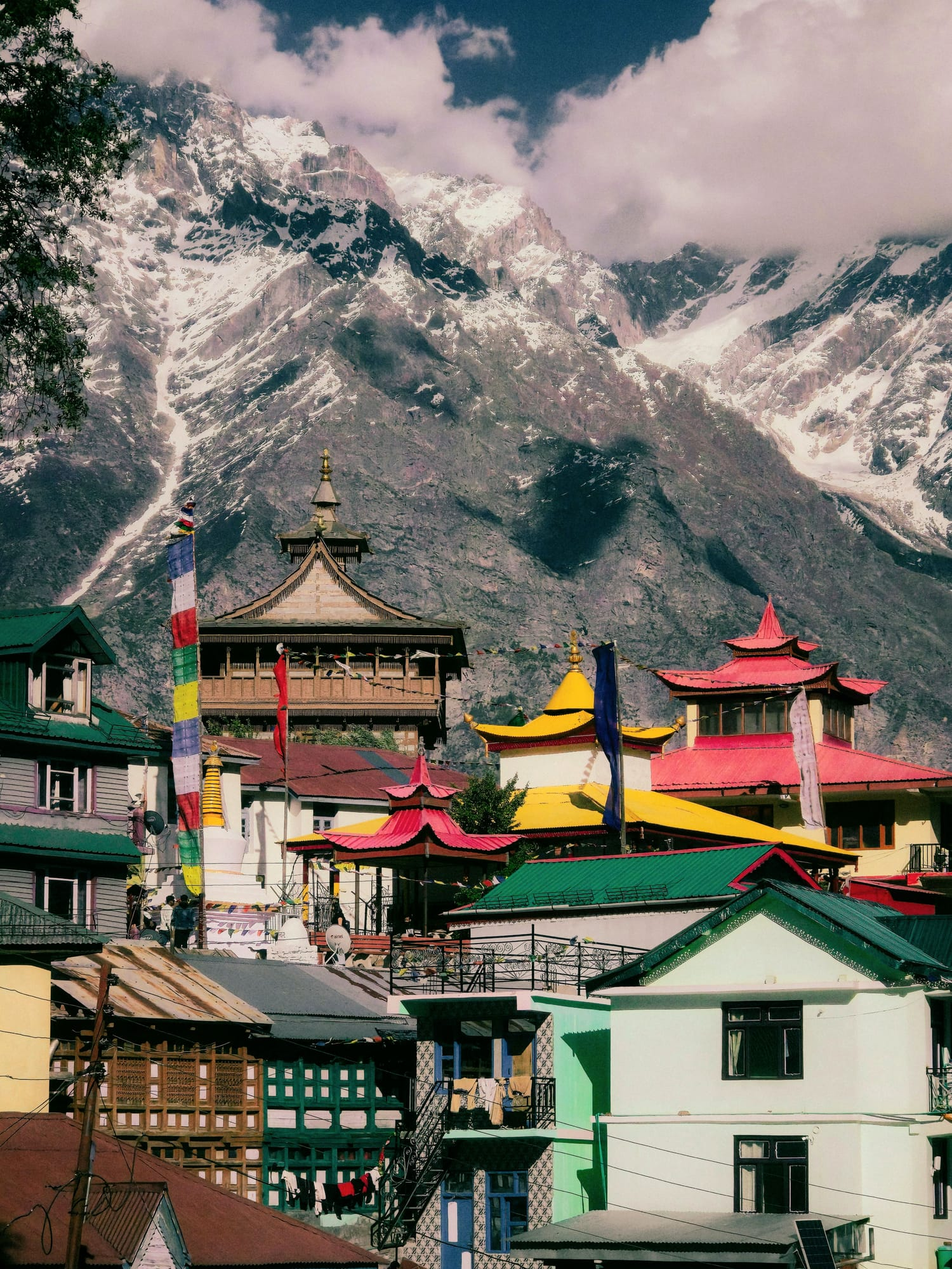
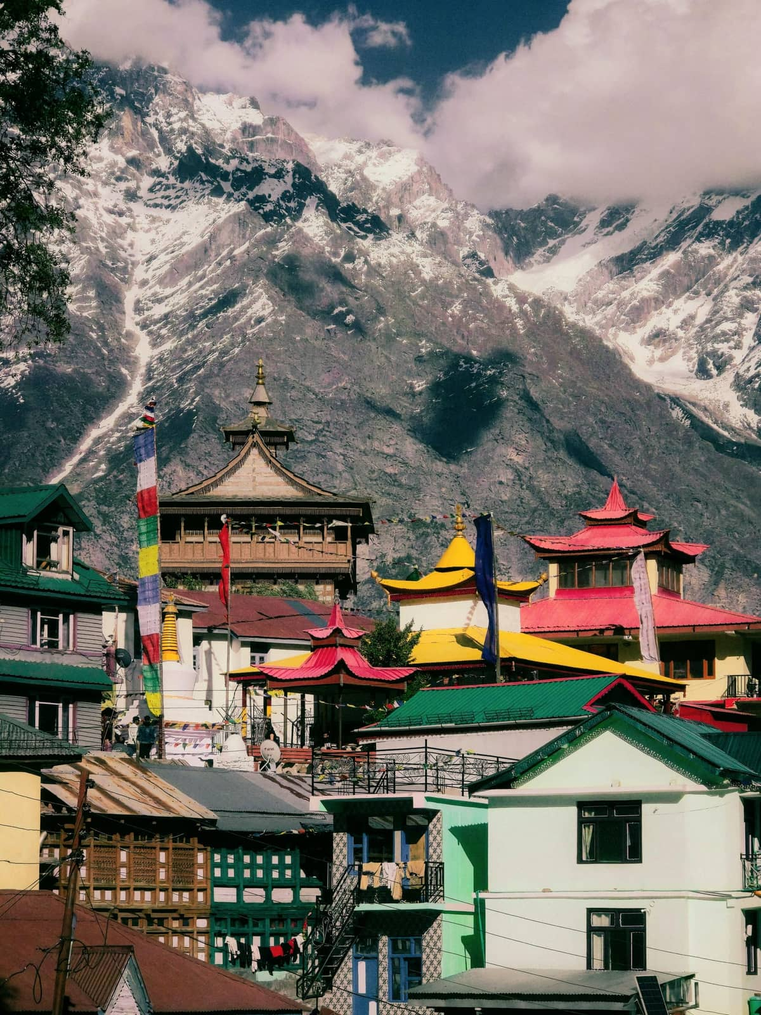
Reduce mobile hero and destination image payloads (#678)
* Use optimized WebP for mobile hero image

* Use optimized WebP in mobile hero styling

* Add free GitHub Actions image optimization workflow

* Optimize destination and mobile hero images

* Tighten destination image dimensions and byte targets

* Refresh mobile hero CSS cache for WebP image

* Record verified deployment and image optimization results

* Remove temporary image optimization workflow after asset generation

* Document removal of temporary image optimization workflow

---------

Changed region(s): [[0.2158, 0.5938, 0.2467, 0.625]]

diff --git a/index.html b/index.html
@@ -23,7 +23,7 @@
 <meta name="twitter:title" content="Himalayan Odyssey Expedition | Himachal & Spiti Tour Packages">
 <meta name="twitter:description" content="Himalayan Odyssey Expedition is a Narkanda-based Himachal travel operator offering Spiti Valley, Winter Spiti, Kinnaur and customised Himachal group and private tours.">
 <link rel="preload" as="image" href="/spiti.jpg" fetchpriority="high" media="(min-width: 761px)">
-<link rel="preload" as="image" href="/IMG_8475.jpeg?v=3" fetchpriority="high" media="(max-width: 760px)">
+<link rel="preload" as="image" href="/IMG_8475.webp?v=1" fetchpriority="high" media="(max-width: 760px)">
 <link rel="icon" type="image/svg+xml" href="/favicon.svg?v=1">
 <link rel="alternate icon" href="/logo.webp">
 <link rel="preconnect" href="https://fonts.googleapis.com">
@@ -1817,7 +1817,7 @@ body.guest-itinerary-popup-open{overflow:hidden}
 }
 @media(prefers-reduced-motion:reduce){.mdc-ring .destination-card{transition:none!important}}
 </style>
-<link rel="stylesheet" href="/hero-motion-repair.css?v=7">
+<link rel="stylesheet" href="/hero-motion-repair.css?v=8">
 <script src="/hero-atmosphere.js?v=2" defer></script>
 <link rel="stylesheet" href="/featured-travel-photography.css?v=8">
 
@@ -1943,7 +1943,7 @@ body.guest-itinerary-popup-open{overflow:hidden}
 </header>
 <!-- HERO -->
 <div class="hero" id="home">
-  <img class="hero-ken-burns-photo" src="/IMG_8475.jpeg?v=3" alt="" aria-hidden="true" decoding="async" fetchpriority="high">
+  <img class="hero-ken-burns-photo" src="/IMG_8475.webp?v=1" alt="" aria-hidden="true" decoding="async" fetchpriority="high">
   <div class="hero-content">
     <div class="mobile-tibetan-flag-line" aria-hidden="true"></div>
     <h1 class="hero-animated-heading"><span class="hero-heading-static hero-heading-prefix">The</span><span class="hero-word-slot"><span id="heroRotatingWord" class="hero-word-rotator word-himalayas" aria-label="Himalayas are">Himalayas are</span></span><span class="hero-heading-static hero-heading-suffix">calling</span></h1>
@@ -6999,8 +6999,8 @@ body.promo-itinerary-modal-open{overflow:hidden!important}
 /* Final cascade override: place after every legacy hero style so the mobile hero uses IMG_8475. */
 @media screen and (max-width:760px){
   html body #home.hero{
-    background:linear-gradient(90deg,rgba(16,36,59,.88) 0%,rgba(16,36,59,.62) 47%,rgba(16,36,59,.08) 100%),linear-gradient(0deg,rgba(16,36,59,.46),transparent 45%),url("/IMG_8475.jpeg?v=3") center 48%/cover no-repeat!important;
-    background-image:linear-gradient(90deg,rgba(16,36,59,.88) 0%,rgba(16,36,59,.62) 47%,rgba(16,36,59,.08) 100%),linear-gradient(0deg,rgba(16,36,59,.46),transparent 45%),url("/IMG_8475.jpeg?v=3")!important;
+    background:linear-gradient(90deg,rgba(16,36,59,.88) 0%,rgba(16,36,59,.62) 47%,rgba(16,36,59,.08) 100%),linear-gradient(0deg,rgba(16,36,59,.46),transparent 45%),url("/IMG_8475.webp?v=1") center 48%/cover no-repeat!important;
+    background-image:linear-gradient(90deg,rgba(16,36,59,.88) 0%,rgba(16,36,59,.62) 47%,rgba(16,36,59,.08) 100%),linear-gradient(0deg,rgba(16,36,59,.46),transparent 45%),url("/IMG_8475.webp?v=1")!important;
     background-position:center,center,center 48%!important;
     background-size:auto,auto,cover!important;
     background-repeat:no-repeat!important;
@@ -7601,7 +7601,7 @@ body.promo-itinerary-modal-open{overflow:hidden!important}
     background-image:
       linear-gradient(0deg,rgba(5,16,29,.62) 0%,rgba(5,16,29,.20) 55%,rgba(5,16,29,.06) 100%),
       linear-gradient(90deg,rgba(5,16,29,.30),rgba(5,16,29,.02)),
-      url("/IMG_8475.jpeg?v=3")!important;
+      url("/IMG_8475.webp?v=1")!important;
     background-position:center,center,58% 54%!important;
     background-size:cover,cover,cover!important;
     background-repeat:no-repeat,no-repeat,no-repeat!important;

diff --git a/hero-motion-repair.css b/hero-motion-repair.css
@@ -29,7 +29,7 @@
     background-image:
       linear-gradient(0deg, rgba(5,16,29,.92) 0%, rgba(5,16,29,.45) 48%, rgba(5,16,29,.14) 100%),
       linear-gradient(90deg, rgba(5,16,29,.34), rgba(5,16,29,.02)),
-      url("/IMG_8475.jpeg?v=2") !important;
+      url("/IMG_8475.webp?v=1") !important;
     background-position: center, center, 58% 42% !important;
     background-size: cover !important;
     background-repeat: no-repeat !important;

diff --git a/PROJECT_MEMORY.md b/PROJECT_MEMORY.md
@@ -622,10 +622,17 @@ A narrowly phrased user command authorizes a narrowly scoped change:
 - AI recommendation cards for packages and group departures now select the item and continue the guided enquiry rather than bypassing guest/date/pickup collection with a direct WhatsApp link.
 - Fixed the AI response lifecycle so microphone listening resumes after the request finishes, including when speech playback is unavailable or ends before the request cleanup.
 - Bumped the shared voice assistant script cache URL from v8 to v9. No Supabase schema/data, credentials, deployment settings, or booking records changed.
-- PR #677 merged to main on 2026-11-22 as commit `f6fd231025040d1bb1ed79e8cd55cc6e5392e5e0`; GitHub Actions Static site quality checks run #1626 passed. Live browser/device verification and GitHub Pages deployment completion remain unverified.
+- PR #677 merged to main on 2026-11-22 as commit `f6fd231025040d1bb1ed79e8cd55cc6e5392e5e0`; GitHub Actions Static site quality checks run #1626 passed. GitHub Pages deployment run #1296 and Pages build #1653 completed successfully. Live browser/device verification remains unverified.
 
 
 ## 2026-11-22 — Source-level SEO sitemap validation
 - Checked all 18 URLs in `sitemap.xml` against the repository: every corresponding page file exists.
 - All 18 sitemap pages have a non-empty title, meta description and canonical URL; no duplicate titles or canonical URLs were found, and none of the sitemap pages is marked noindex.
 - This validates repository source only; it does not establish that GitHub Pages has deployed the latest files, that Google has crawled them, or that the URLs are indexed.
+
+
+## 2026-11-22 — Optimize large homepage and destination images (PR pending)
+- Used a temporary branch-scoped GitHub Actions workflow with Sharp to generate the optimized assets; removed the workflow after the successful run. No paid service or production runtime dependency was added.
+- Converted the 4.46 MB mobile hero JPEG into a 302 KB WebP at quality 82 and updated the homepage preload, hero image element, inline mobile backgrounds and hero stylesheet to use the WebP asset. Bumped the hero stylesheet cache URL.
+- Compressed destination JPGs: Kinnaur 591 KB to 283 KB, Spiti 268 KB to 224 KB, Narkanda 211 KB to 179 KB, and Manali 539 KB to 331 KB. Kinnaur and Manali remain above the first-pass target; further compression may trade away visible quality.
+- Optimization workflow run #1 succeeded. The optimized assets and WebP reference changes are on branch `performance/optimize-images-20261122`; PR, static checks, and GitHub Pages deployment verification pending.
